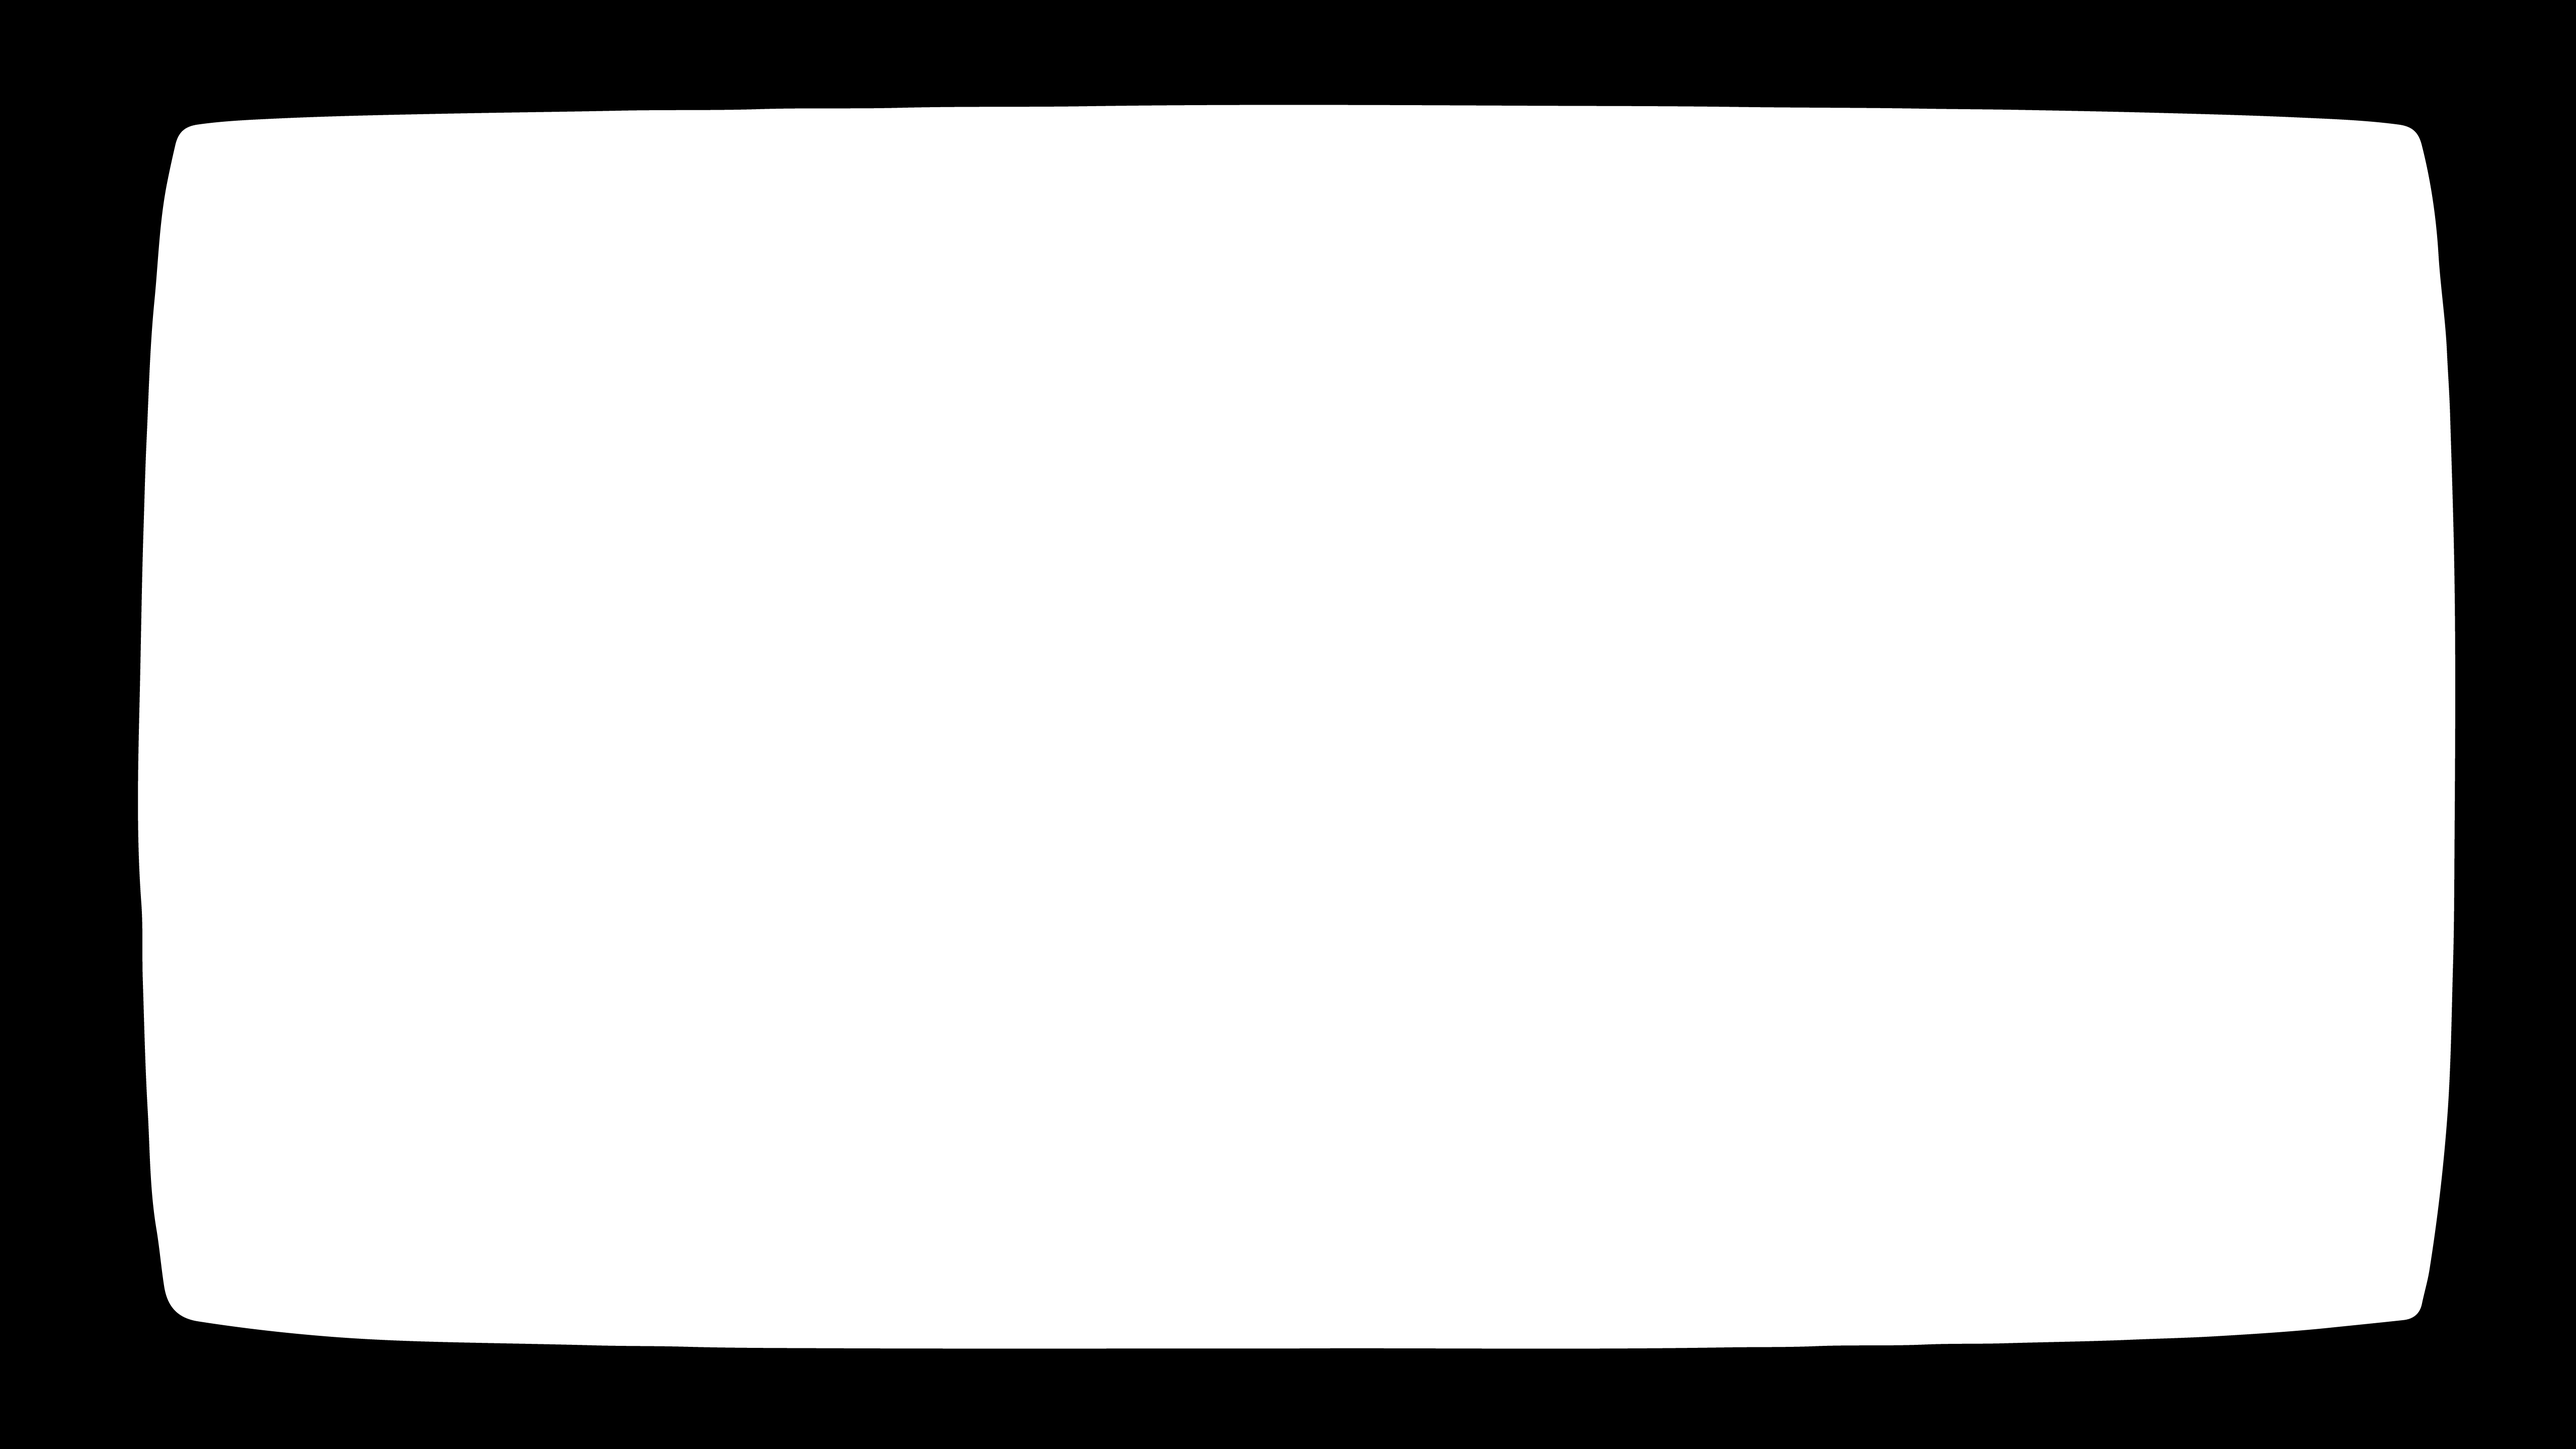
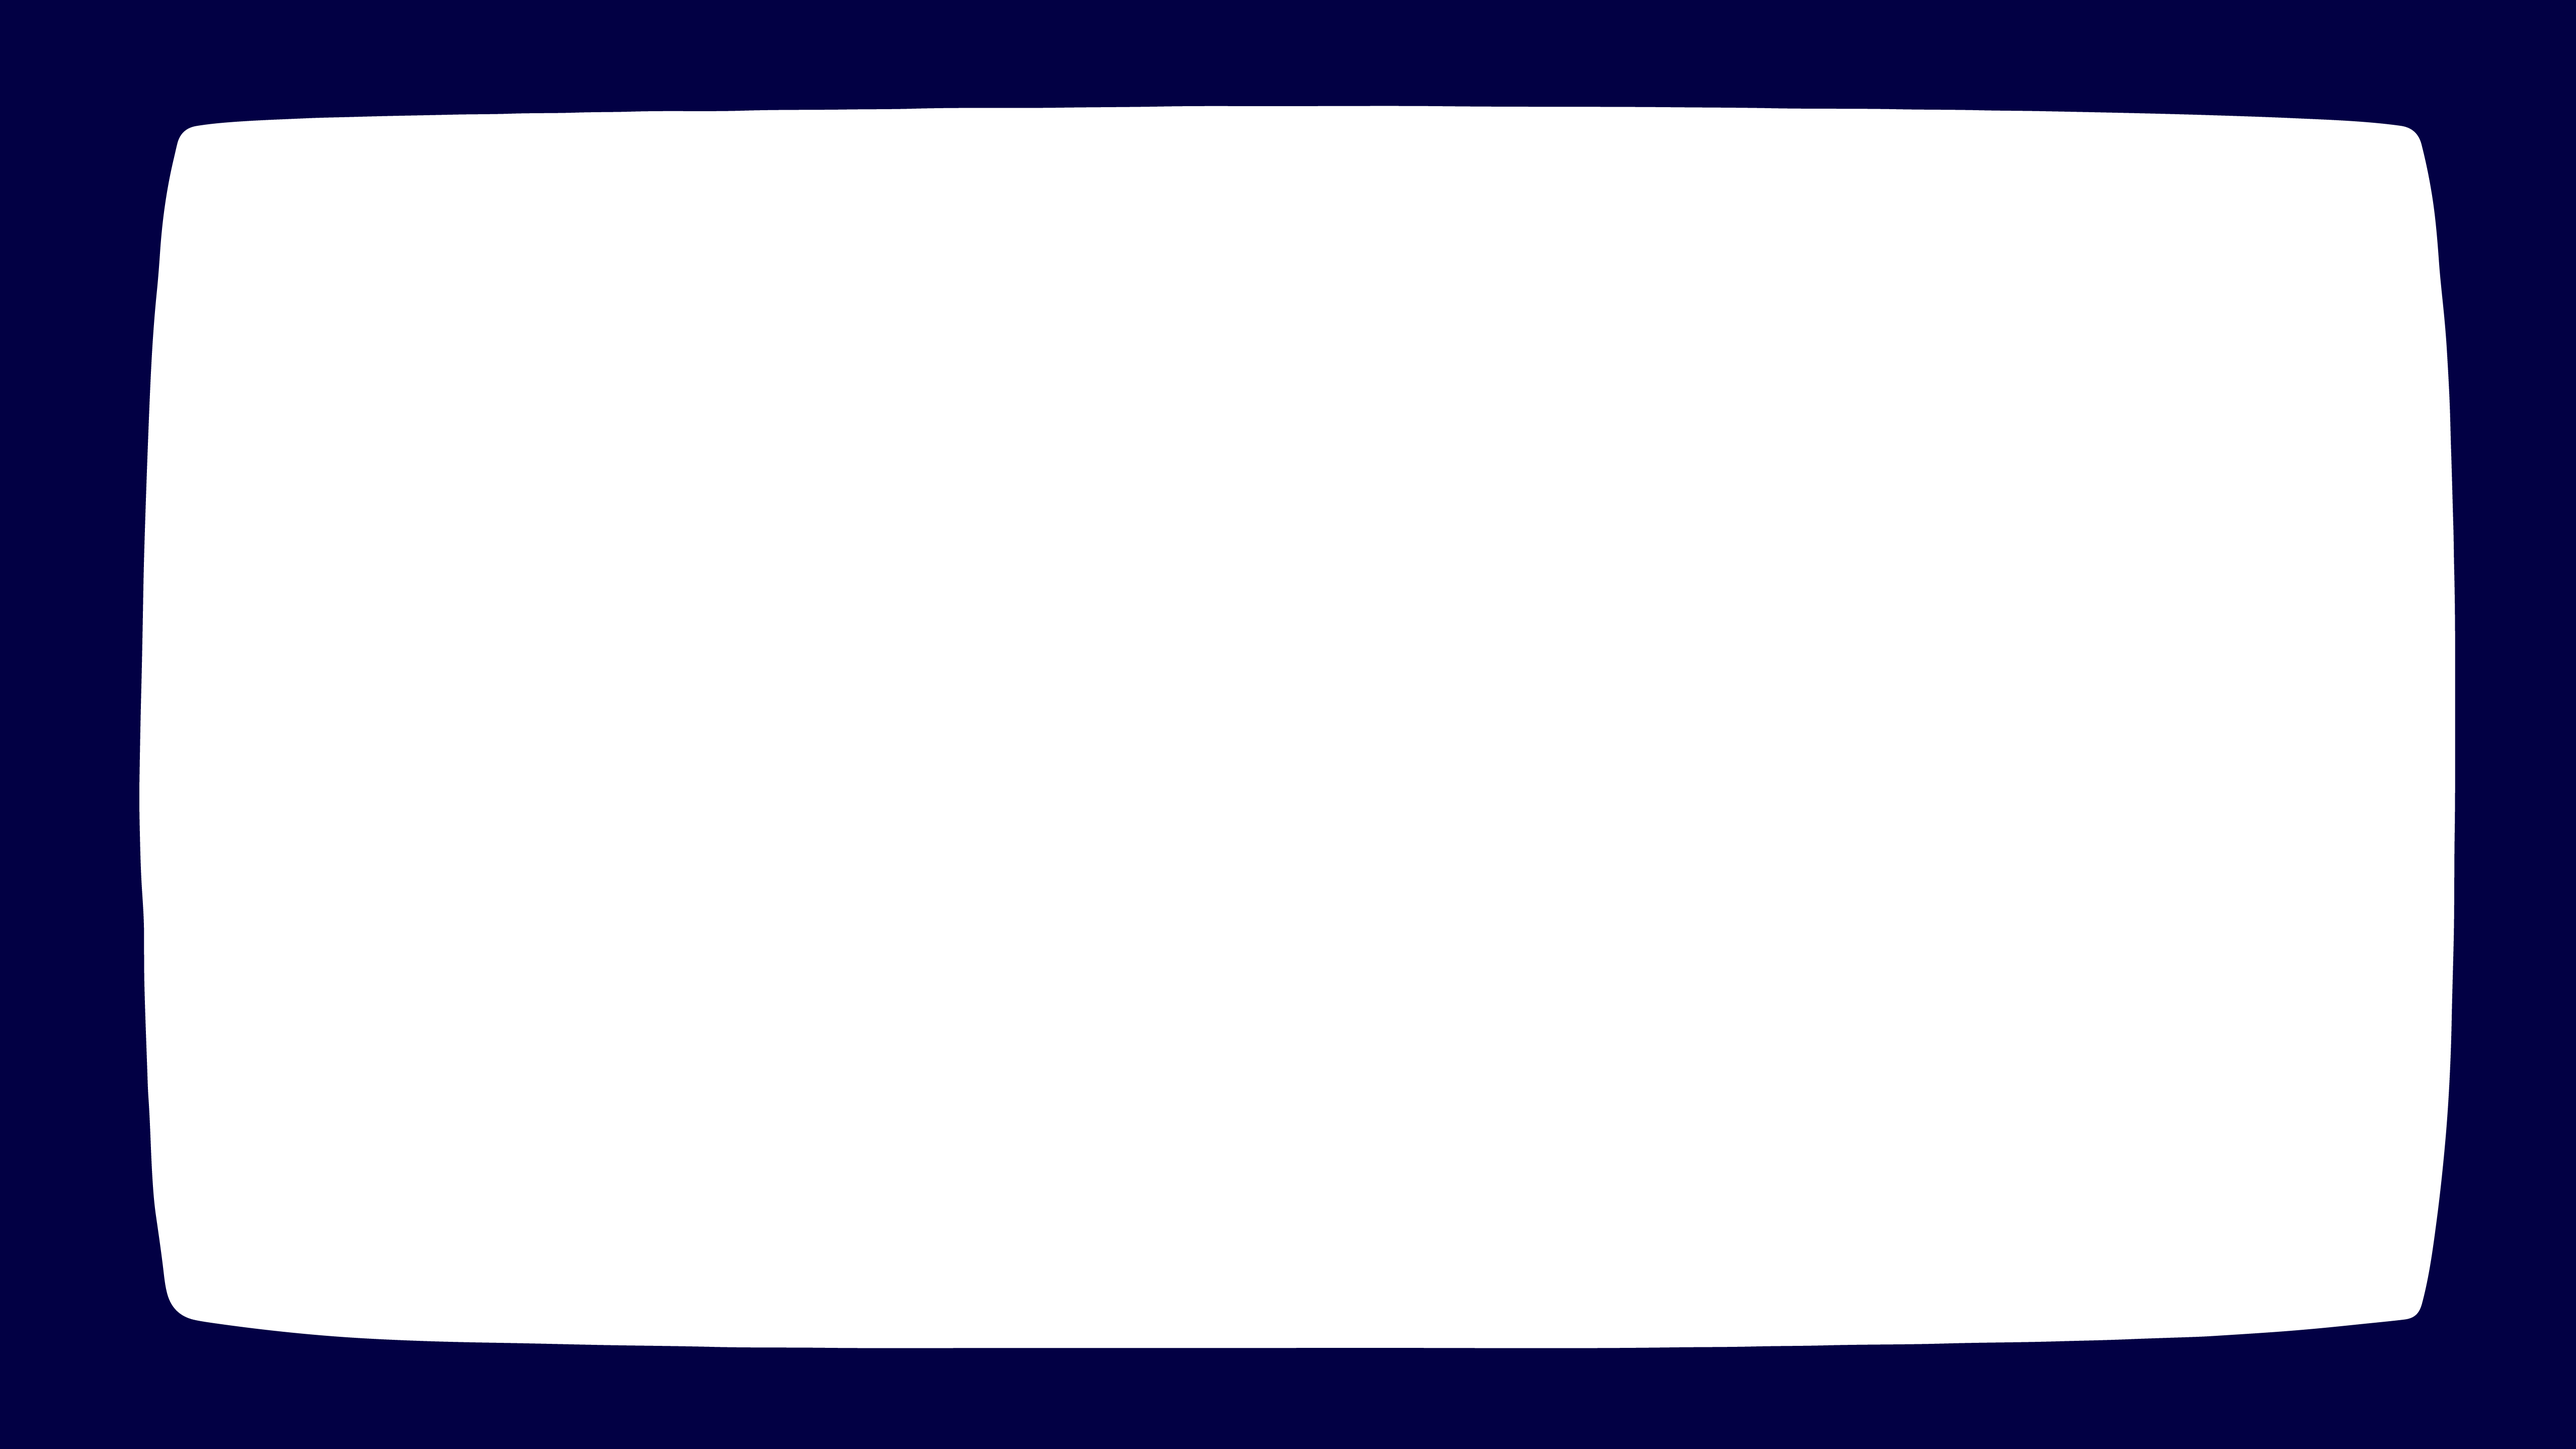
changed colors lol

Changed region(s): [[0.0, 0.0, 1.0, 1.0]]

diff --git a/src/components/Design.vue b/src/components/Design.vue
@@ -55,7 +55,8 @@ function handleEnterClick() {
 }
 
 .design-content > p {
-  color: #d9b5ff;
+  color: #110870;
+  text-shadow: 0px 0px 2px #110870;
   font-size: 24px;
   margin-bottom: 20px;
   margin-top: 0;
@@ -83,7 +84,8 @@ function handleEnterClick() {
   flex-direction: column;
   width: 50%;
   text-align: left;
-  color: #d9b5ff;
+  color: #110870;
+  text-shadow: 0px 0px 2px #110870;
   justify-content: center;
   align-items: center;
 }
@@ -96,6 +98,7 @@ function handleEnterClick() {
 .enter-button {
   display: inline-block;
   margin-top: 10px;
+  box-shadow: 0px 0px 5px #110870;
 }
 
 .enter-button a {
@@ -103,8 +106,9 @@ function handleEnterClick() {
   font-size: 24px;
   text-align: center;
   padding: 10px 20px;
-  background-color: #d9b5ff;
-  color: #0d0026;
+  background-color: #110870;
+  color: #d7f1ff;
+  text-shadow: 0px 0px 2px #d7f1ff;
   cursor: pointer;
   text-transform: uppercase;
   text-decoration: none;  
@@ -112,8 +116,11 @@ function handleEnterClick() {
 }
 
 .enter-button a:hover {
-  background-color: #d9b5ff;
-  color: #0d0026; 
+  background-color: #45a3ff;
+  color: #d7f1ff; 
+  box-shadow: 0px 0px 5px #45a3ff;
+
+  
 }
 
 @media (max-width: 1300px) {

diff --git a/src/components/MainPage.vue b/src/components/MainPage.vue
@@ -103,14 +103,8 @@ onUnmounted(() => {
   align-items: center;
   flex-wrap: wrap;
   overflow-y: auto;
-  color:#d9b5ff;
   font-family: "VT323", monospace;
 
-}
-
-.container * {
-  text-shadow: 0px 0px 5px #d9b5ff;
-  ;
 }
 
 .nav {
@@ -121,10 +115,14 @@ onUnmounted(() => {
 
 .nav-title {
   font-size: 12px;
+  color: #110870;
+  text-shadow: 0px 0px 5px #110870;
 }
 
 .nav-links {
   font-size: 28px;
+  color: #45a3ff;
+  text-shadow: 0px 0px 2px #45a3ff;
 }
 
 
@@ -145,19 +143,19 @@ li a {
 }
 
 li:hover, li:focus {
-  background-color: #d9b5ff;
-  color: #0d0026;
+  background-color: #45a3ff;
+  color: #d7f1ff;
   text-decoration: underline;
 }
 
 .nav-links li.selected {
-  background-color: #d9b5ff;
-  color: #0d0026;
+  background-color: #45a3ff;
+  color: #d7f1ff;
   text-decoration: underline;
 }
 
 .nav-links li.selected a {
-  color: #0d0026;
+  color: #d7f1ff;
 }
 
 li:last-child {

diff --git a/src/components/Modal.vue b/src/components/Modal.vue
@@ -97,13 +97,13 @@ onUnmounted(() => {
   display: flex;
   flex-direction: column;
   align-items: center;
-  background-color: #0d0026;
-  border: 2px solid #d9b5ff;
+  background-color: #f0f6ff;
+  border: 2px solid #110870;
   width: 60vw;
   max-width: 800px;
   height: 75vh;
   z-index: 10;
-  box-shadow: 0px 0px 8px #d9b5ff;
+  box-shadow: 0px 0px 8px #110870;
   user-select: none;
 }
 
@@ -114,15 +114,16 @@ onUnmounted(() => {
   width: 100%;
   height: 50px;
   min-height: 50px;
-  border-bottom: 2px solid #d9b5ff;
+  border-bottom: 2px solid #110870;
   padding: 0 2vh;
   box-sizing: border-box;
-  box-shadow: 0px 0px 8px #d9b5ff;
+  box-shadow: 0px 0px 8px #110870;
   cursor: grab;
 }
 
 .modal-bar p {
-  color: #d9b5ff;
+  color: #110870;
+  text-shadow: 0px 0px 2px #110870;
   font-size: 24px;
   cursor:default;
   margin: 0;

diff --git a/src/components/Particles.vue b/src/components/Particles.vue
@@ -4,10 +4,10 @@ import { ref, onMounted, onUnmounted } from 'vue';
 const canvas = ref(null);
 
 const particles = [];
-const particleCount = 100;
-const particleColor = '#d9b5ff';
+const particleCount = 200;
+const particleColor = '#45a3ff';
 const particleSize = 2;
-const particleSpeed = 0.6;
+const particleSpeed = 0.7;
 
 function createParticles() {
   for (let i = 0; i < particleCount; i++) {
@@ -80,6 +80,6 @@ onUnmounted(() => {
   width: 100%;
   height: 100%;
   z-index: -1;
-  opacity: 0.3;
+  opacity: 0.5;
 }
 </style>

diff --git a/src/components/Clock.vue b/src/components/Clock.vue
@@ -28,8 +28,8 @@ onUnmounted(() => {
 .clock {
   font-family: "VT323", monospace;
   font-size: 32px;
-  color: #d9b5ff;
-  text-shadow: 0px 0px 5px #d9b5ff;
+  color: #45a3ff;
+  text-shadow: 0px 0px 5px #45a3ff;
   text-align: right;
   padding: 1.4vh;
 }

diff --git a/src/components/Github.vue b/src/components/Github.vue
@@ -39,7 +39,8 @@ defineEmits(['close']);
 
 .github-content p {
   font-size: 28px;
-  color: #d9b5ff;
+  color: #110870;
+  text-shadow: 0px 0px 2px #110870; 
   text-align: center;
   max-width: 100%;
   word-wrap: break-word;

diff --git a/src/assets/base.css b/src/assets/base.css
@@ -8,7 +8,7 @@
 
 body {
   font-family: "VT323", monospace;
-  background-color: #0d0026;
+  background-color: #f0f6ff;
 ;
   position: relative;
   overflow-x: hidden;
